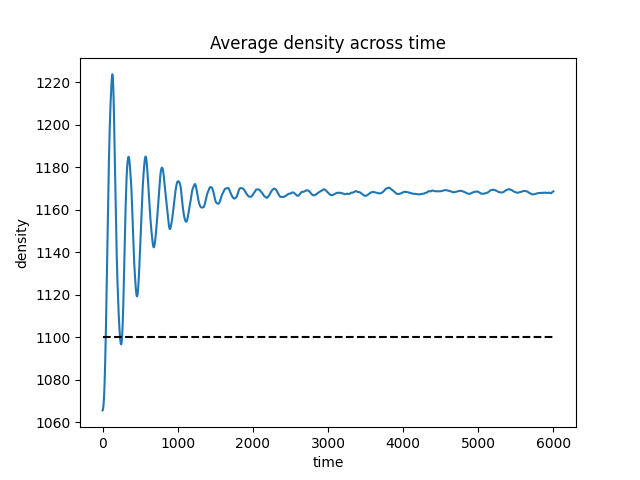
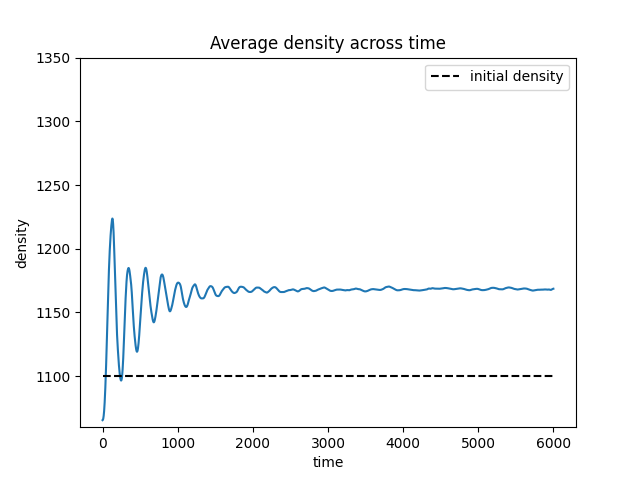
state 03.02.2022

diff --git a/src/Bachelorprojekt.cpp b/src/Bachelorprojekt.cpp
@@ -44,6 +44,8 @@ int main(int argc, char *argv[]) {
   // archiving the average density
   ParticleAnalyzer analyzer;
 
+  auto total_start = std::chrono::high_resolution_clock::now();
+
   while (renderer.IsRunning()) {
     auto start = std::chrono::high_resolution_clock::now();
 
@@ -65,9 +67,8 @@ int main(int argc, char *argv[]) {
     });
 
     for (auto &particle: particles) {
-      /*
       particle.updateVelocity(constants::time_step);
-      particle.updatePosition(constants::time_step); */
+      particle.updatePosition(constants::time_step);
     }
 
     auto end = std::chrono::high_resolution_clock::now();
@@ -79,11 +80,16 @@ int main(int argc, char *argv[]) {
 
     analyzer.Log(particles);
 
-    if (frame_counter == 6000) {
+    if (frame_counter == 12000) {
       renderer.Stop();
     }
   }
   CLogger::exit();
+
+  auto total_end = std::chrono::high_resolution_clock::now();
+  auto total_duration = std::chrono::duration<double, milli>(total_end - total_start);
+  std::cout << "Total duration: " << total_duration.count() / 1000 << " seconds." << std::endl;
+
   std::cout << "Exiting" << std::endl;
 
   return 0;

diff --git a/src/ParticleAnalyzer.cpp b/src/ParticleAnalyzer.cpp
@@ -33,8 +33,8 @@ void ParticleAnalyzer::Log(const ParticleVector &particles) {
 
   // Creates a map of all particles in the simulation after 2000 iterations
 
-  if (_iteration == 2000) {
-    StoreMap(particles);
+  if (_iteration == 4000) {
+    // StoreMap(particles);
   }
 
   _iteration++;
@@ -66,7 +66,7 @@ void ParticleAnalyzer::StoreMap(const ParticleVector &particles) {
   });
 
   // increase sample window
-  auto maxPos = max->getPos() + Vector(0, 4);
+  auto maxPos = max->getPos() + Vector(0, -1);
   std::cout << "maxPos: " << maxPos << std::endl;
   std::cout << "minPos: " << min->getPos() << std::endl;
   for (auto y = min->getPos().getY(); y < maxPos.getY(); y += 0.05) {

diff --git a/util/graph/createGraph.py b/util/graph/createGraph.py
@@ -18,7 +18,10 @@ def main():
     # plotting the points
     plt.plot(x, y)
 
-    plt.plot([0, 6000], [1100, 1100], color='black', linestyle='dashed')
+    plt.plot([0, 6000], [1100, 1100], color='black',
+             linestyle='dashed', label='initial density')
+    plt.legend()
+    plt.ylim([1060, 1350])
 
     # naming the x axis
     plt.xlabel('time')

diff --git a/src/Constants.h b/src/Constants.h
@@ -15,7 +15,7 @@ constexpr double friction = 0.5;
 constexpr int window_size = 1000.0;
 constexpr float particleRenderSize = 1.5;
 
-constexpr float time_step = 0.01;
+constexpr float time_step = 0.004;
 
 constexpr double pi = 3.14159265358979323846;
 }
